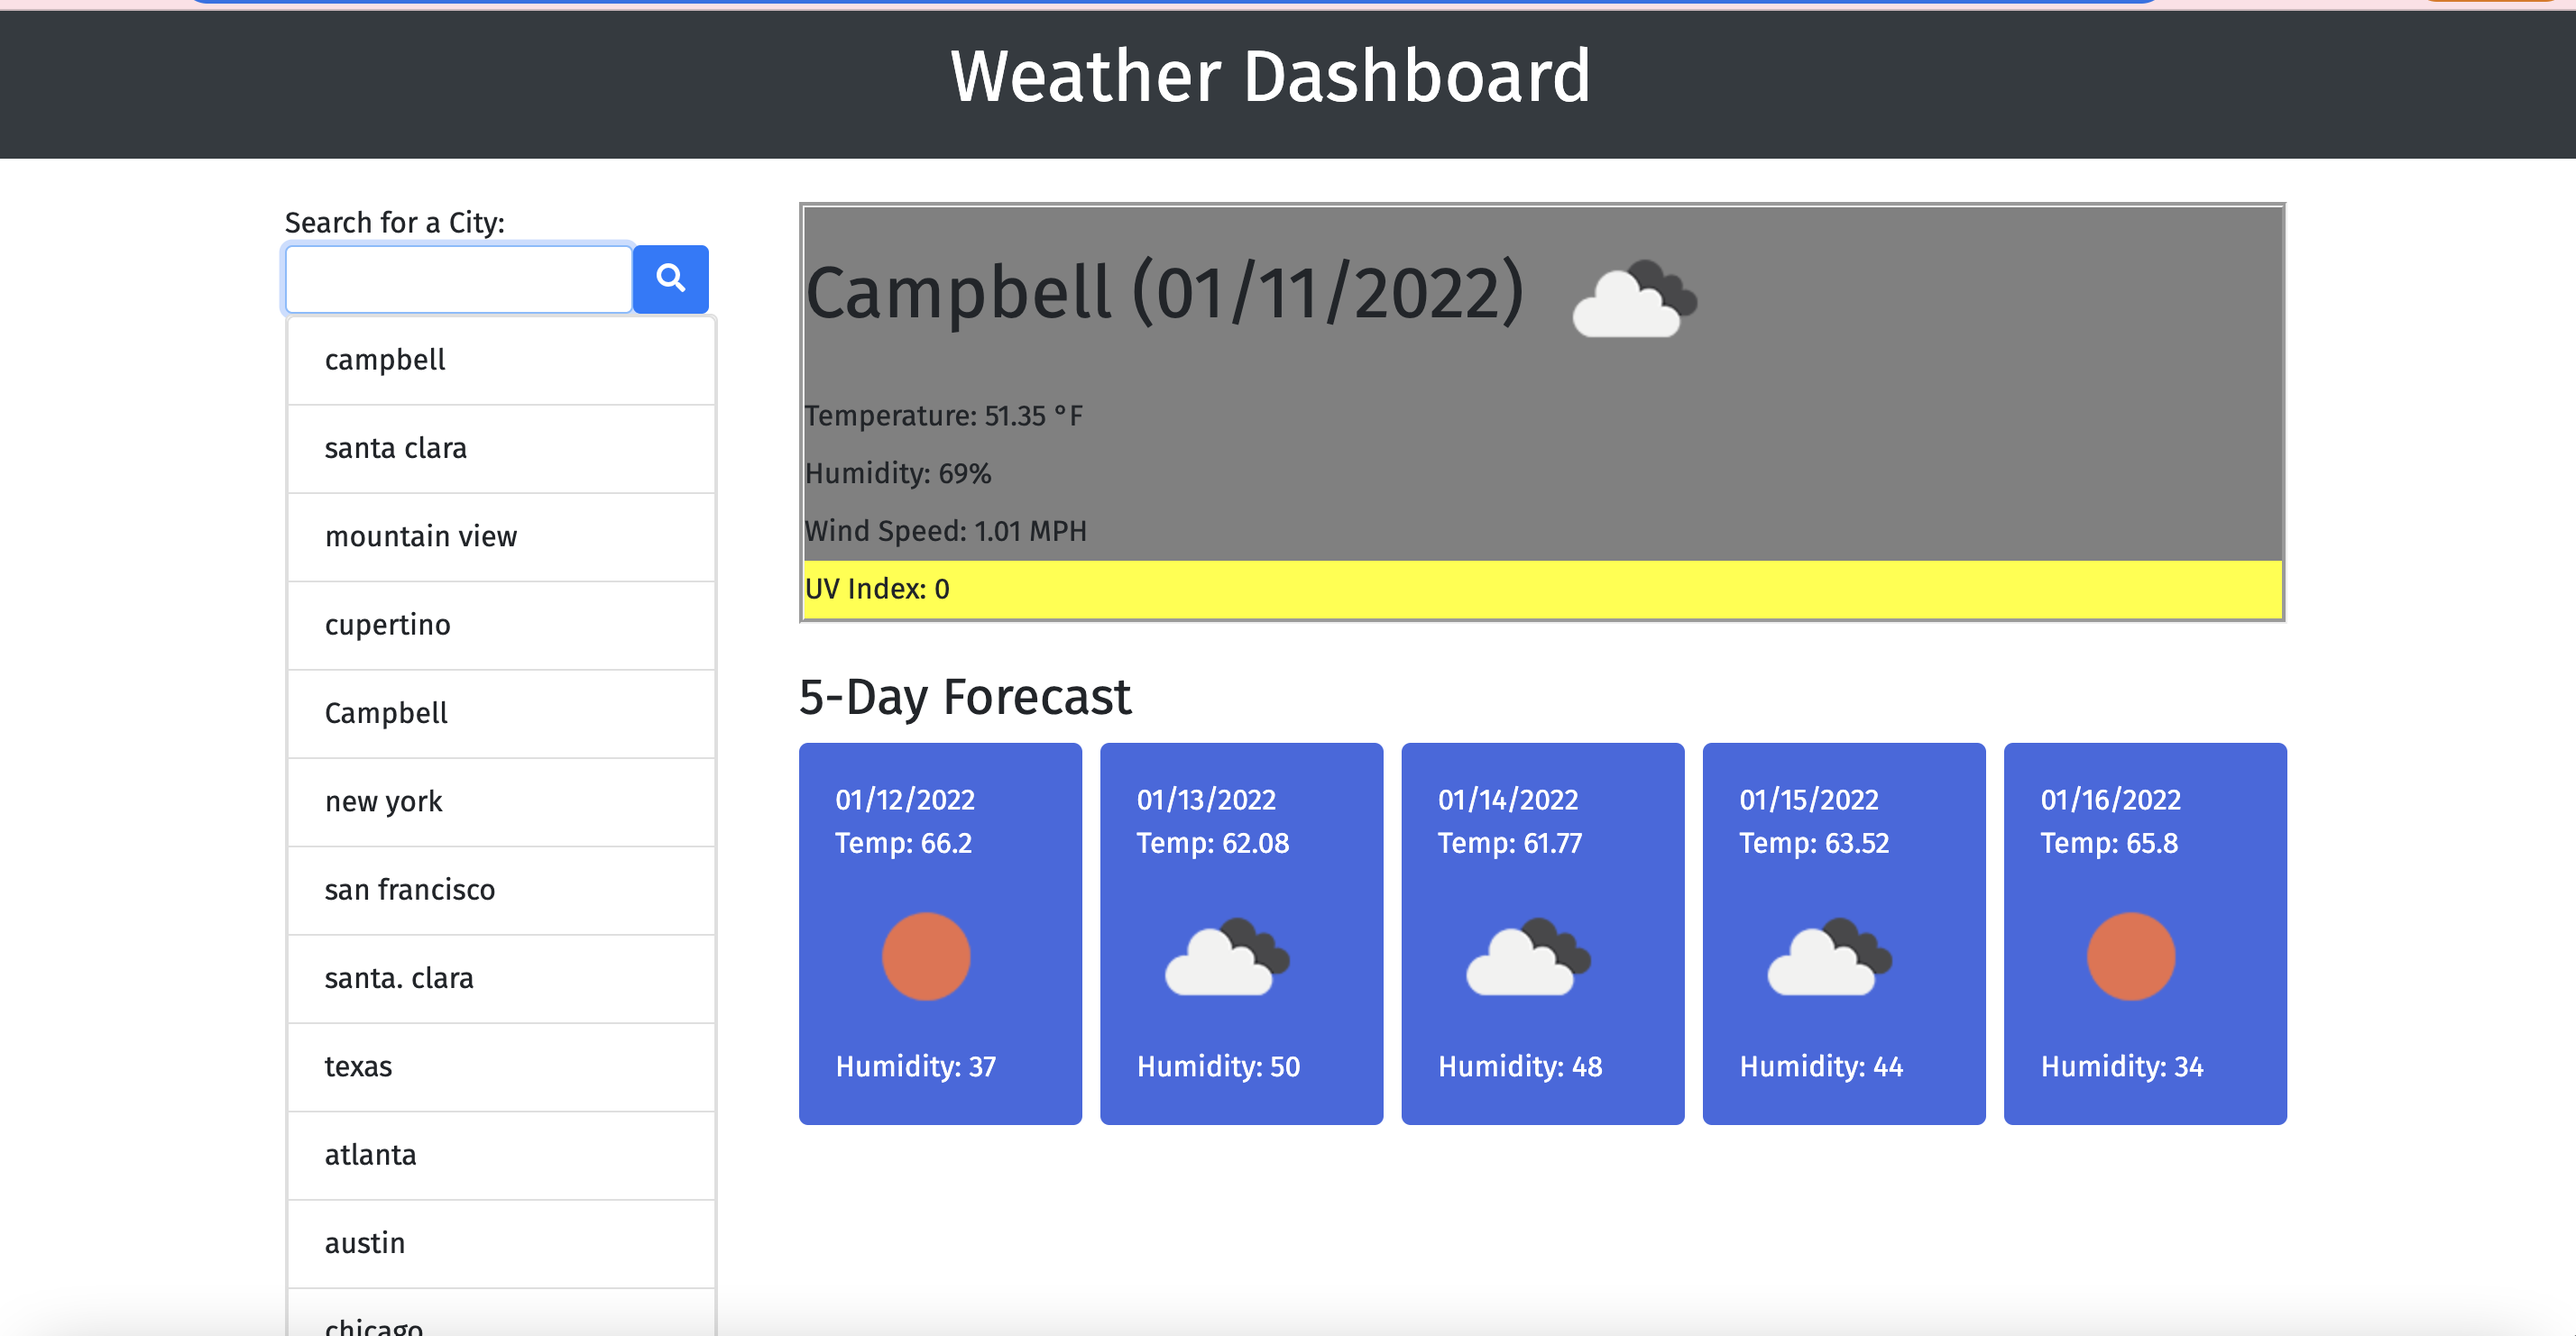
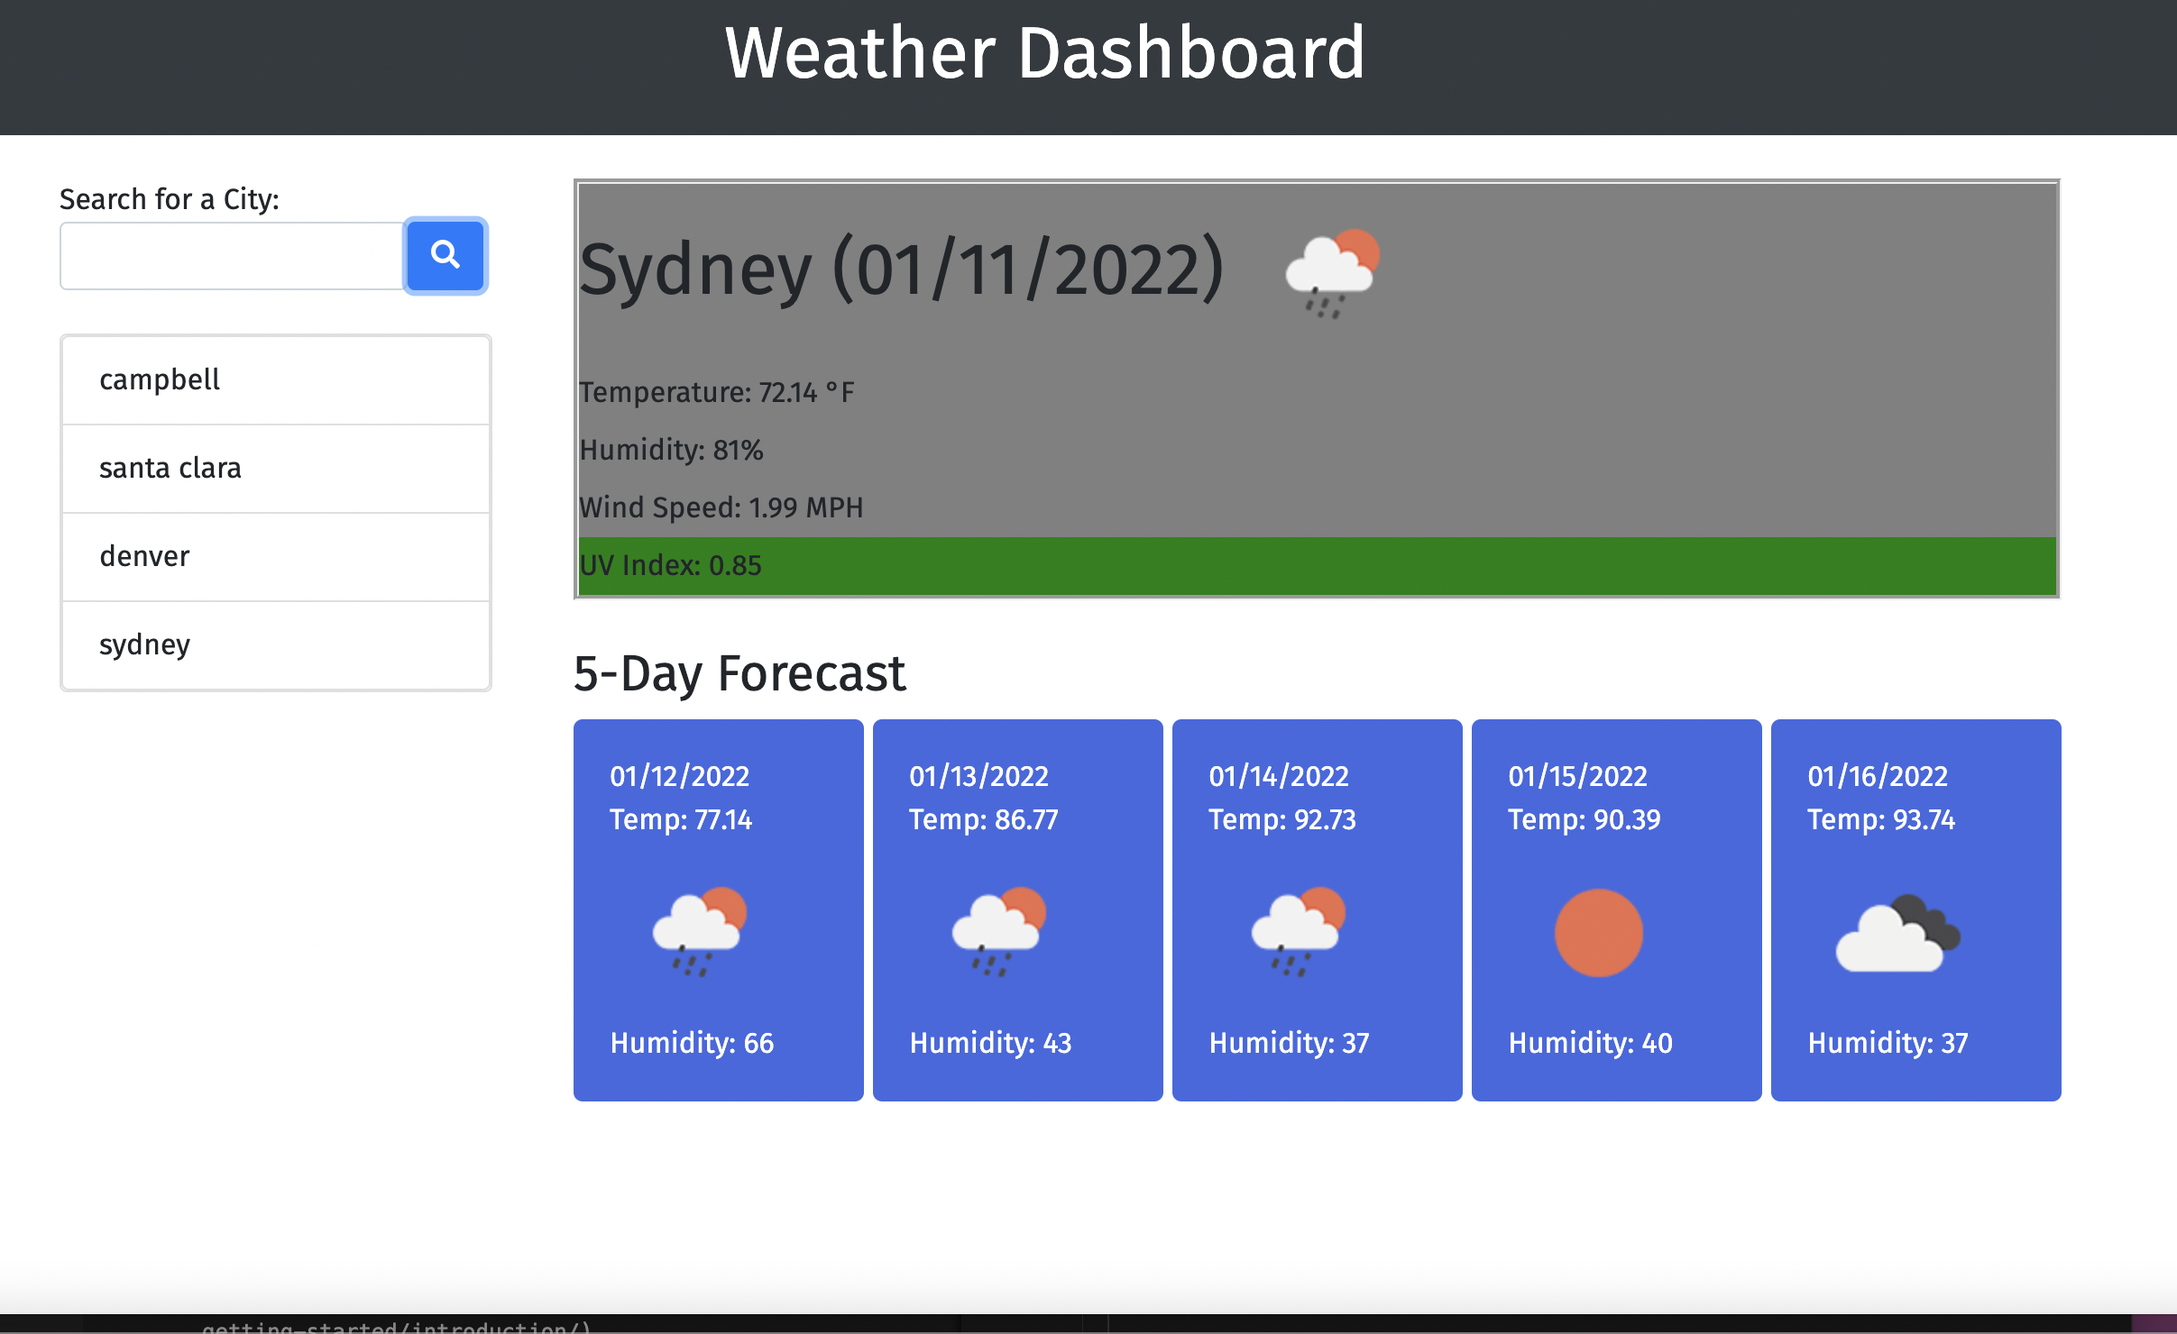
fixing UV index colors

diff --git a/assets/js/script.js b/assets/js/script.js
@@ -118,11 +118,11 @@ function getWeatherData(city) {
 
           //UV Index color checks
           if (0 <= data.current.uvi <= 2) {
-            $("#uv-index").css("background-color", "yellow");
+            $("#uv-index").css("background-color", "green");
           } else if (3 <= data.current.uvi <= 5) {
-            $("#uv-index").css("background-color", "orange");
+            $("#uv-index").css("background-color", "yellow");
           } else if (data.current.uvi >= 6) {
-            $("#uv-index").css("background-color", "red");
+            $("#uv-index").css("background-color", "orange");
           }
 
           $("#forecast").empty(); // empty forecast div when search for another city

diff --git a/README.md b/README.md
@@ -6,7 +6,7 @@ This app allows uers to see weather conditions for cities. Using OpenWeather API
 
 ## Summary
 
-When the page loads the user is presented with a search field where a city name can be entered. The current weather for that city loads showing city name, date, icon representation of weather conditions, the temperature, the humidity, the wind speed, and the UV index. The UV index displays a color that represents weather conditions in that city (low: yellow, moderate: orange, or high: red). The weather app also displays a 5-day forecast that displays the date, an icon representation of weather conditions, the temperature, and the humidity. When clicking a city in search history the user is presented again with current and future conditions for that city.
+When the page loads the user is presented with a search field where a city name can be entered. The current weather for that city loads showing city name, date, icon representation of weather conditions, the temperature, the humidity, the wind speed, and the UV index. The UV index displays a color that represents weather conditions in that city (low: green, moderate: yellow, or high: orange). The weather app also displays a 5-day forecast that displays the date, an icon representation of weather conditions, the temperature, and the humidity. When clicking a city in search history the user is presented again with current and future conditions for that city.
 
 ## Screenshots from the app
 
